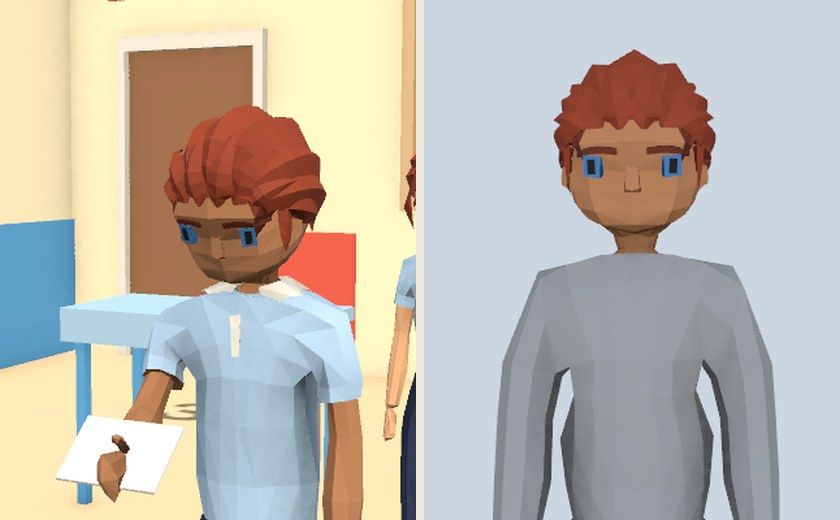
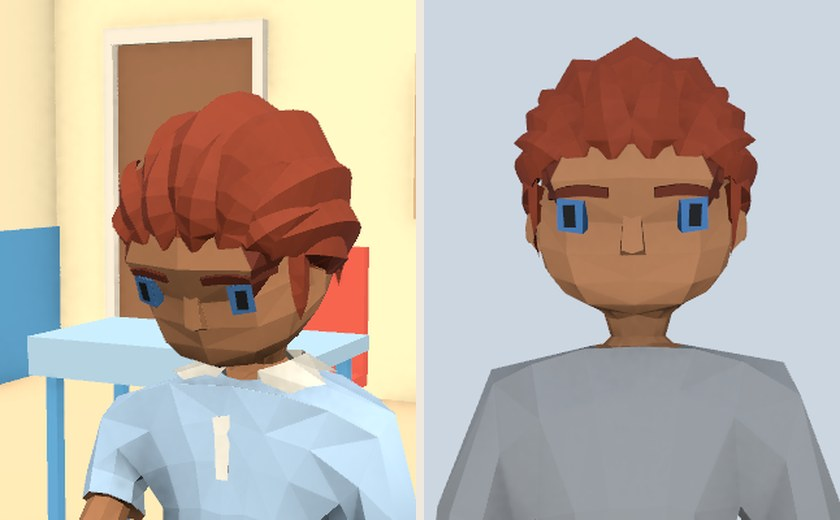
Recapture the student door and ID photo pairs with face framing
The six door close-up and ID photo pairs are captured again for the same
people with the portrait framing that fills the frame with the face. The
framing text describes the face-based rule, the small-heads limit is
gone, and the seed note now names the moustached and bearded men, whose
logs show they were forced, instead of the stubbled teen.

diff --git a/student-characters/index.html b/student-characters/index.html
@@ -196,7 +196,8 @@ section { display: grid; gap: 20px; }
     </div>
     <div class="sub"><h3>At the door and on the ID</h3><p class="muted">Admission in Play mode: the live door close-up
       (left of each pair) and the ID photo on the document (right), for the same person. Both are framed on the
-      student's own eyes and head, so a child and an adult fill them the same way. The photo is a flat-lit headshot
+      student's own face, chin to the top of the skull, so the face fills the frame as the old body's did and a
+      child fills it as an adult does; the tallest hairstyles may reach the top edge. The photo is a flat-lit headshot
       of who the document says they are; hair can differ, since a photo is older than today's haircut.</p>
       <div class="figs">
         <figure><img src="img/new/door-child.jpg" alt="An eight-year-old boy at the door and on his ID photo" loading="lazy"><figcaption><b>Child, 8</b>, Maple, in the uniform.</figcaption></figure>
@@ -206,7 +207,7 @@ section { display: grid; gap: 20px; }
         <figure><img src="img/new/door-beard.jpg" alt="A 51-year-old man with a beard and glasses at the door and on his ID photo" loading="lazy"><figcaption><b>Adult, 51, beard and glasses</b>, National.</figcaption></figure>
         <figure><img src="img/new/door-grey.jpg" alt="A 59-year-old woman with grey hair at the door and on her ID photo" loading="lazy"><figcaption><b>Adult, 59, grey hair</b>, National.</figcaption></figure>
       </div>
-      <p class="muted">The child, the young teen and the grey-haired woman are as the game drew them. The stubbled teen and the bearded man were picked by appearance seed, because no natural draw in the capture run gave them; the teen was also kept to a lighter skin tone so the stubble shows.</p>
+      <p class="muted">The child, the young teen, the stubbled teen and the grey-haired woman are as the game drew them. The man with the moustache and the bearded man were picked by appearance seed, because no natural draw in the capture run gave them.</p>
     </div>
     <div class="sub"><h3>Hair colours</h3><p class="muted">Black, brown, fair and auburn at every age; grey and white
       only from 45, when about six in ten are greying. Brown is an ash brown, retuned so it no longer reads as auburn.
@@ -296,8 +297,9 @@ section { display: grid; gap: 20px; }
         <a href="#desk-distance">desk distance</a>). The room, desks and chairs stay where they were. In the writers
         measured in the rooms above (45 across five rooms and four runs), the writing hand is on the sheet.</p></div>
       <div class="card"><h3>Photo and door framing per body</h3><p>The ID photo and the door close-up are framed on the
-        student's own eyes and head height rather than on one fixed body, so children, teens and adults sit the same
-        way in both frames.</p></div>
+        student's own face rather than on the tallest hair: each body's chin and bare skull top, measured over its
+        four faces, are zoomed to fill the frame as the old body's head did, with the head set a little low to leave
+        room for ordinary hairstyles. Children, teens and adults fill both frames the same way.</p></div>
       <div class="card"><h3>Clips per band</h3><p>Every prefab plays its own band's baked clips under the names the
         game already uses. The prefab builder measures each body's hold, release and settle times from those clips;
         letting go of a held gesture fades over 1.0–1.4 s.</p></div>
@@ -708,7 +710,6 @@ section { display: grid; gap: 20px; }
       <li><b>A seated skirt floats up to 3.5 cm above the seat.</b></li>
       <li><b>Mitten hands.</b> A flat paddle with a thumb: fine from the game camera, plain at the door and in the
         close shots above, where a hand writes, taps, holds the phone or wears the watch.</li>
-      <li><b>New students' ID photos show smaller heads than the old body did.</b></li>
       <li><b>The teen girls' bun has no knot from behind.</b> From the back it reads as short hair.</li>
       <li><b>Glasses temples poke past the hair at the back</b> on short styles (bun, tied back, pixie, cropped).</li>
       <li><b>The teen girls' bob shows a dark wedge at the parting.</b></li>
